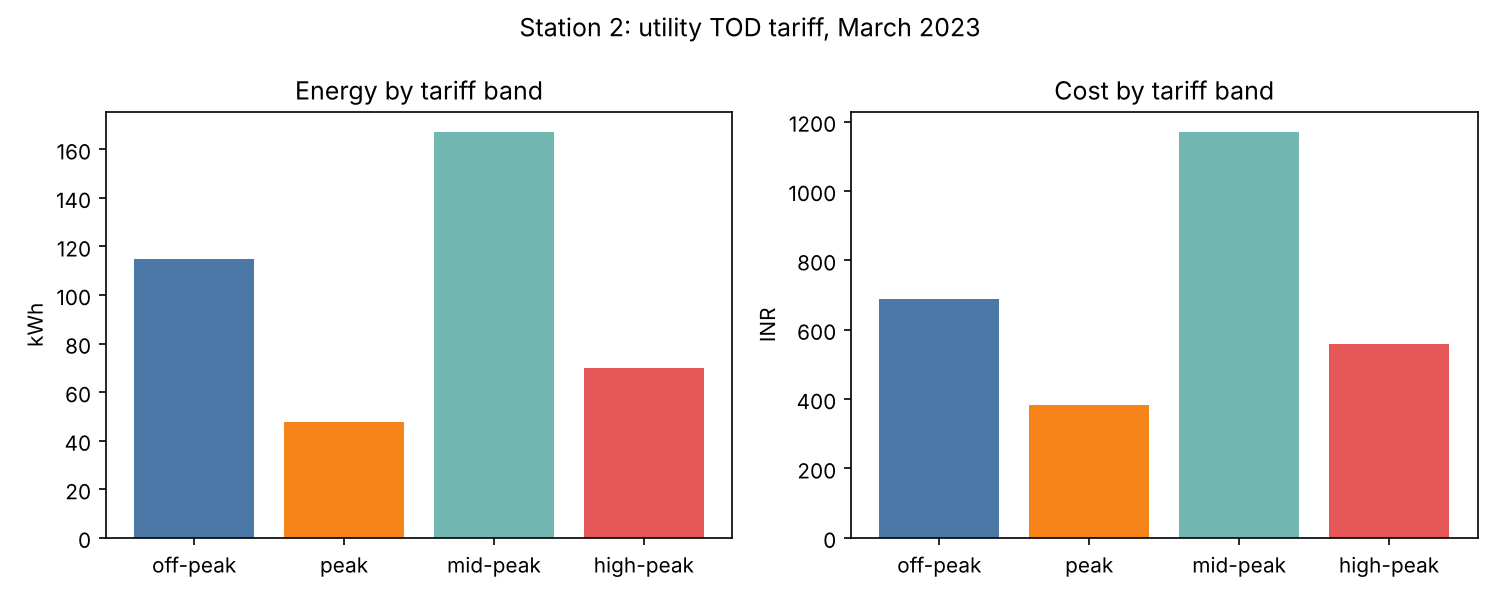
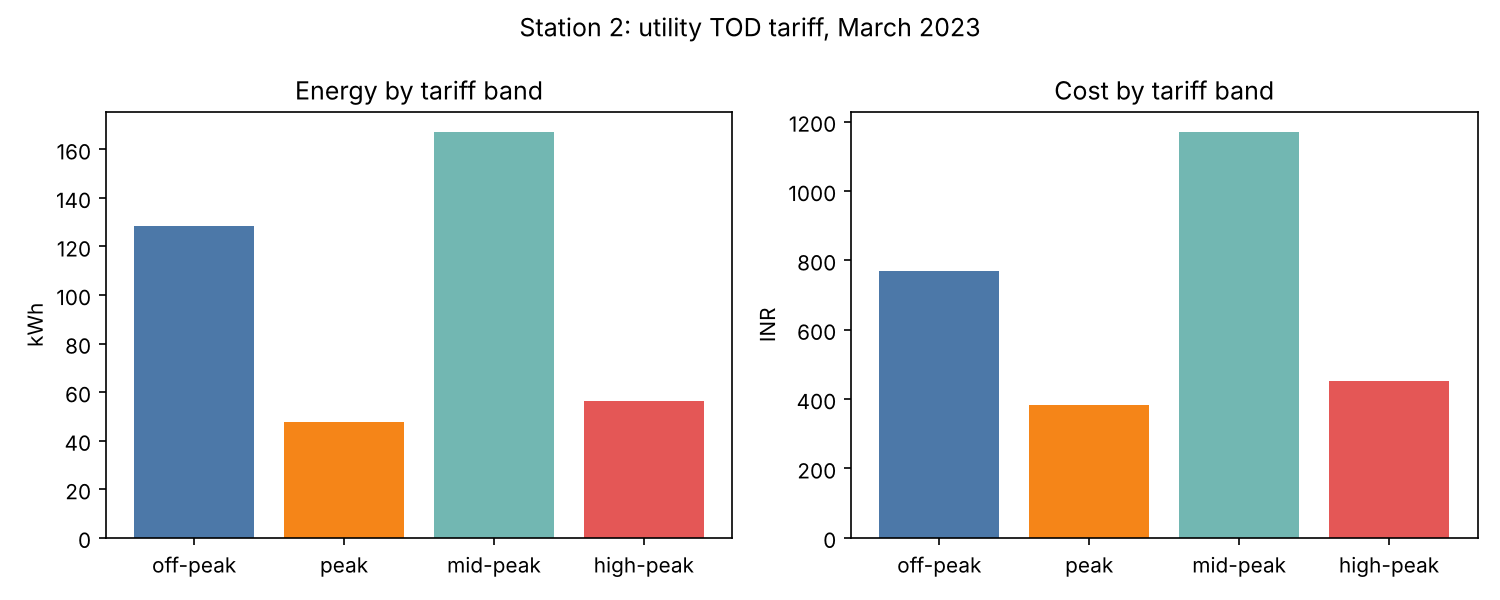
Align tariff hours with published tariff table; add Station 4 meter ID and all-station cost table
Claude-Session: https://claude.ai/code/session_012ud3iq7Wis1Svtdh9BXH5D

diff --git a/src/evcs/tariff.py b/src/evcs/tariff.py
@@ -3,22 +3,23 @@
 import pandas as pd
 
 # Hour-of-day -> tariff band. Every hour 0-23 must be assigned exactly once.
-#   off-peak  : 23:00-07:00
+# Bands follow the tariff table published in the thesis and NPSC paper:
+#   off-peak  : 22:00-07:00
 #   peak      : 07:00-11:00
 #   mid-peak  : 11:00-19:00
-#   high-peak : 19:00-23:00
-#
-# Note: the original thesis notebooks left hour 6 (06:00-07:00) out of the
-# off-peak rule by mistake, so it fell through to "high-peak". It is
-# off-peak here. Use ``ORIGINAL_NOTEBOOK_BANDS`` to reproduce the old numbers.
+#   high-peak : 19:00-22:00
 TOD_BANDS = {
-    **{h: "off-peak" for h in [23, 0, 1, 2, 3, 4, 5, 6]},
+    **{h: "off-peak" for h in [22, 23, 0, 1, 2, 3, 4, 5, 6]},
     **{h: "peak" for h in range(7, 11)},
     **{h: "mid-peak" for h in range(11, 19)},
-    **{h: "high-peak" for h in range(19, 23)},
+    **{h: "high-peak" for h in range(19, 22)},
 }
 
-ORIGINAL_NOTEBOOK_BANDS = {**TOD_BANDS, 6: "high-peak"}
+# The original notebooks implemented different bands from the published table:
+# off-peak 23:00-06:00, and everything else after 19:00 as high-peak, so
+# 06:00-07:00 and 22:00-23:00 were both priced as high-peak. These bands
+# reproduce the cost figures in the NPSC paper (Table II) exactly.
+ORIGINAL_NOTEBOOK_BANDS = {**TOD_BANDS, 6: "high-peak", 22: "high-peak"}
 
 BAND_ORDER = ["off-peak", "peak", "mid-peak", "high-peak"]
 
@@ -62,3 +63,13 @@ def band_summary(priced: pd.DataFrame) -> pd.DataFrame:
     summary.loc["total"] = summary.sum()
     summary["energy_share_pct"] = 100 * summary["energy_kwh"] / summary.loc["total", "energy_kwh"]
     return summary.round(2)
+
+
+def cost_from_hour_of_day(hour_table: pd.DataFrame, rates: dict, bands: dict = TOD_BANDS) -> pd.Series:
+    """Monthly cost per column of an (hour 0-23 x station) energy table.
+
+    Works because a TOD tariff depends only on the hour of day, so hourly
+    totals summed over the month are enough to compute the bill.
+    """
+    rate = pd.Series([rates[bands[h]] for h in hour_table.index], index=hour_table.index)
+    return hour_table.mul(rate, axis=0).sum()

diff --git a/scripts/run_analysis.py b/scripts/run_analysis.py
@@ -90,6 +90,16 @@ def main():
     ] + [analysis.weekday_vs_weekend(daily_dates.sum(axis=1))["p_value"]]
     overview.to_csv(config.TABLE_DIR / "all_stations_overview.csv")
 
+    # Utility TOD cost for all stations: corrected bands vs the bands used in the paper
+    rates = tariff.TARIFF_SCENARIOS["utility_tod"]
+    costs = pd.DataFrame({
+        "energy_kwh": hourly_all.sum(),
+        "cost_inr_corrected_bands": tariff.cost_from_hour_of_day(hourly_all, rates),
+        "cost_inr_paper_bands": tariff.cost_from_hour_of_day(hourly_all, rates, tariff.ORIGINAL_NOTEBOOK_BANDS),
+    })
+    costs.loc["total"] = costs.sum()
+    costs.round(2).to_csv(config.TABLE_DIR / "all_stations_tariff_cost.csv")
+
     # --- Full analysis for stations with raw meter data ---
     rows, forecasts = {}, []
     for station in config.STATION_METERS:

diff --git a/src/evcs/config.py b/src/evcs/config.py
@@ -10,12 +10,15 @@ FIGURE_DIR = ROOT / "results" / "figures"
 TABLE_DIR = ROOT / "results" / "tables"
 
 # Each charging station is metered by one 5G smart meter.
-# Station 4's raw meter export is not included in this repository yet.
+# Station numbering follows the original analysis notebooks (and the station
+# totals in the NPSC paper, Table II). Note: the paper's meter table (Table I)
+# lists meters 175 and 174 in the opposite order.
+# Station 4 (meter 10050180) raw export is not included in this repository yet.
 STATION_METERS = {
     1: "IHM10050174",
     2: "IHM10050175",
     3: "IHM10050178",
-    4: None,
+    4: "IHM10050180",
 }
 
 TIMEZONE = "Asia/Kolkata"

diff --git a/src/evcs/plots.py b/src/evcs/plots.py
@@ -53,7 +53,7 @@ def hour_of_day_all(hour_table: pd.DataFrame, path):
     fig, ax = plt.subplots(figsize=(10, 4.5))
     for col in hour_table.columns:
         ax.plot(hour_table.index, hour_table[col], marker="o", lw=1.5, label=col.replace("_kwh", "").replace("_", " ").title())
-    for start, end, colour in [(7, 11, BAND_COLOURS["peak"]), (19, 23, BAND_COLOURS["high-peak"])]:
+    for start, end, colour in [(7, 11, BAND_COLOURS["peak"]), (19, 22, BAND_COLOURS["high-peak"])]:
         ax.axvspan(start - 0.5, end - 0.5, color=colour, alpha=0.1)
     ax.set(
         title="Energy by hour of day, March 2023 (shaded: peak and high-peak tariff hours)",

diff --git a/tests/test_evcs.py b/tests/test_evcs.py
@@ -32,9 +32,12 @@ def test_every_hour_has_exactly_one_band():
     assert set(tariff.TOD_BANDS.values()) == set(tariff.BAND_ORDER)
 
 
-def test_hour_six_is_off_peak():
+def test_bands_match_published_tariff_table():
     assert tariff.TOD_BANDS[6] == "off-peak"
+    assert tariff.TOD_BANDS[22] == "off-peak"
+    assert tariff.TOD_BANDS[21] == "high-peak"
     assert tariff.ORIGINAL_NOTEBOOK_BANDS[6] == "high-peak"
+    assert tariff.ORIGINAL_NOTEBOOK_BANDS[22] == "high-peak"
 
 
 def test_interval_energy_uses_import_register_only():

diff --git a/README.md b/README.md
@@ -3,6 +3,8 @@
 Data analytics for four public EV charging stations on the IIT Hyderabad campus, using 15-minute readings from 5G smart meters (March 2023).
 The pipeline turns raw meter exports into daily and hourly load profiles, time-of-day (TOD) tariff costs, charging-session estimates and short-term load forecasts.
 
+This repository covers the **data analytics** part of the work (Chapter 2 of the M.Tech thesis). The solar PV design, charging schedule and financial analysis in the thesis were done with simulation and spreadsheet tools and are not included here.
+
 This code accompanies:
 
 > **Adhik S**, V. Cherala, A. Ghosh and P. K. Yemula, "Smart Charging Station Infrastructure: A Data-Driven Approach to EV Charging Station Management," *IEEE National Power Systems Conference (NPSC)*, IIT Indore, 2024. [doi:10.1109/NPSC61626.2024.10986894](https://doi.org/10.1109/NPSC61626.2024.10986894)
@@ -17,15 +19,18 @@ This code accompanies:
 |---|---:|---:|---:|---:|---:|
 | Total energy (kWh) | 328.70 | 399.22 | 369.74 | 562.90 | **1,660.56** |
 | Mean daily energy (kWh) | 10.60 | 12.88 | 11.93 | 18.16 | 53.57 |
-| Share of energy in off-peak hours (23:00–07:00) | 30.4% | 28.7% | 33.4% | 32.2% | 31.3% |
-| Electricity cost, utility TOD tariff (INR) | 2,308.71 | 2,797.23 | 2,572.67 | – | – |
+| Share of energy in off-peak hours (22:00–07:00) | 32.9% | 32.1% | 36.4% | 36.4% | 34.7% |
+| Electricity cost, utility TOD tariff (INR) | 2,291.89 | 2,770.31 | 2,550.67 | 3,908.76 | 11,521.63 |
+| *Cost as published in the paper (INR)* | *2,331.81* | *2,819.69* | *2,595.51* | *3,987.40* | *11,734.41* |
 | Charging sessions (approx., ≥ 0.25 kWh) | 98 | 138 | 134 | – | – |
 
-Station 4 is included only through daily and hourly totals, because its raw meter file is not in this repository.
+Station 4 (meter IHM10050180) is included only through daily and hourly totals, because its raw meter file is not in this repository. Session counts are close to the thesis figures (96, 133, 123); the small differences come from how data gaps are handled.
+
+The published costs used slightly different tariff hours from the paper's own tariff table (see [Changes](#changes-from-the-original-thesis-notebooks)). With the original hours, this code reproduces the paper's Tables II and III exactly.
 
 **Main findings**
 
-- About **one third** of all charging energy falls in the peak and high-peak tariff hours (07:00–11:00 and 19:00–23:00). This is the share that load shifting or dynamic pricing could target.
+- About **28%** of all charging energy falls in the peak and high-peak tariff hours (07:00–11:00 and 19:00–22:00). This is the share that load shifting or TOD pricing could target.
 - Demand rises sharply at **11:00** at every station, and at three of the four stations again in the **evening (19:00–22:00)**.
 - Weekday and weekend daily energy are **not significantly different** at any of the four stations (Welch's t-test on daily totals, p > 0.15).
 - Stations 1 and 3 have **multi-day zero or near-zero energy periods** (24–28 March and 25–31 March). These look like outages or chargers taken out of service, and they affect monthly averages.
@@ -72,10 +77,12 @@ Without the raw meter files, the script still produces the all-station figures f
 
    | Band | Hours | Utility TOD (INR/kWh) | Retail scenario A | Retail scenario B |
    |---|---|---:|---:|---:|
-   | Off-peak | 23:00–07:00 | 6 | 12 | 10 |
+   | Off-peak | 22:00–07:00 | 6 | 12 | 10 |
    | Peak | 07:00–11:00 | 8 | 18 | 20 |
    | Mid-peak | 11:00–19:00 | 7 | 14 | 15 |
-   | High-peak | 19:00–23:00 | 8 | 20 | 25 |
+   | High-peak | 19:00–22:00 | 8 | 20 | 25 |
+
+   Hours and utility rates follow the tariff table in the thesis and paper. Retail scenario A matches the paper's EV TOD rates.
 
 3. **Statistics.** Daily summary statistics, weekday vs weekend (Welch's t-test on daily totals), holidays (8 and 22 March) vs other days, and days more than one standard deviation from the mean.
 4. **Sessions.** A charging session is a run of consecutive intervals with energy above zero, ending at an idle interval or a data gap over 20 minutes. Sessions below 0.25 kWh are dropped as noise.
@@ -94,7 +101,7 @@ This repository is a cleaned rebuild of the original analysis notebooks. The mon
 | Issue in original notebooks | Effect | Fix |
 |---|---|---|
 | Filtering on `Unit == "kWh"` kept both the import (`1-0:1.8.0`) and export (`1-0:2.8.0`) registers | Totals were correct (export is always 0), but half the rows were zero-valued export readings, which distorted per-interval averages, the t-test and the forecasting inputs | Filter on the import OBIS code only |
-| Hour 06:00–07:00 was not in any tariff rule and defaulted to high-peak | Electricity cost about 1% too high (e.g. Station 1: INR 2,331.81 → 2,308.71) | Hour 6 is off-peak. The old rule is kept as `ORIGINAL_NOTEBOOK_BANDS` for comparison |
+| The code's tariff hours differed from the published tariff table (off-peak 22:00–07:00, high-peak 19:00–22:00). The code used off-peak 23:00–06:00, so 06:00–07:00 and 22:00–23:00 were charged at high-peak rates | Published monthly cost about 1.8% too high (INR 11,734.41 → 11,521.63 for all four stations) | Bands follow the published table. The old bands are kept as `ORIGINAL_NOTEBOOK_BANDS`, and reproduce the paper's Tables II and III exactly |
 | Rolling-mean forecast features included the current hour | The reported R² ≈ 0.93 was inflated, because the model could see the value it was predicting | Rolling features use only past hours |
 | Weekday/weekend t-test run on individual 15-minute readings | Correlated samples overstate significance | Test on daily totals |
 | Station 1 used retail scenario A, Stations 2–4 used scenario B | Stations were not comparable | Both scenarios computed for every station |

diff --git a/data/README.md b/data/README.md
@@ -16,7 +16,7 @@ Raw exports from the 5G smart meters at the IIT Hyderabad EV charging stations:
 | 1 | IHM10050174 | `data/raw/IHM10050174.csv` |
 | 2 | IHM10050175 | `data/raw/IHM10050175.csv` |
 | 3 | IHM10050178 | `data/raw/IHM10050178.csv` |
-| 4 | – | not available |
+| 4 | IHM10050180 | `data/raw/IHM10050180.csv` (not yet available) |
 
 Format: semicolon-separated, one row per register reading, with columns `Reading values`, `Profile`, `Reading time`, `OBIS code`, `Unit`, and others. The pipeline uses the `InstantaneousProfile` rows with OBIS code `1-0:1.8.0*255` (cumulative imported energy, kWh).
 
